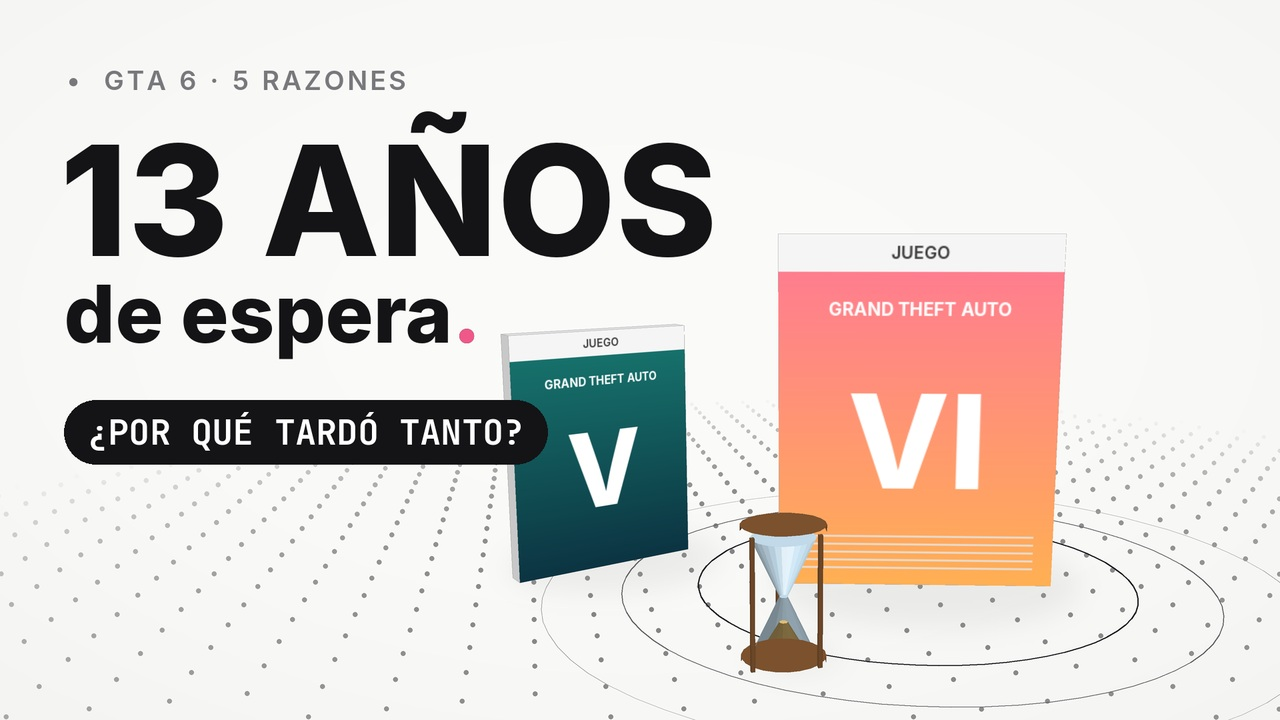
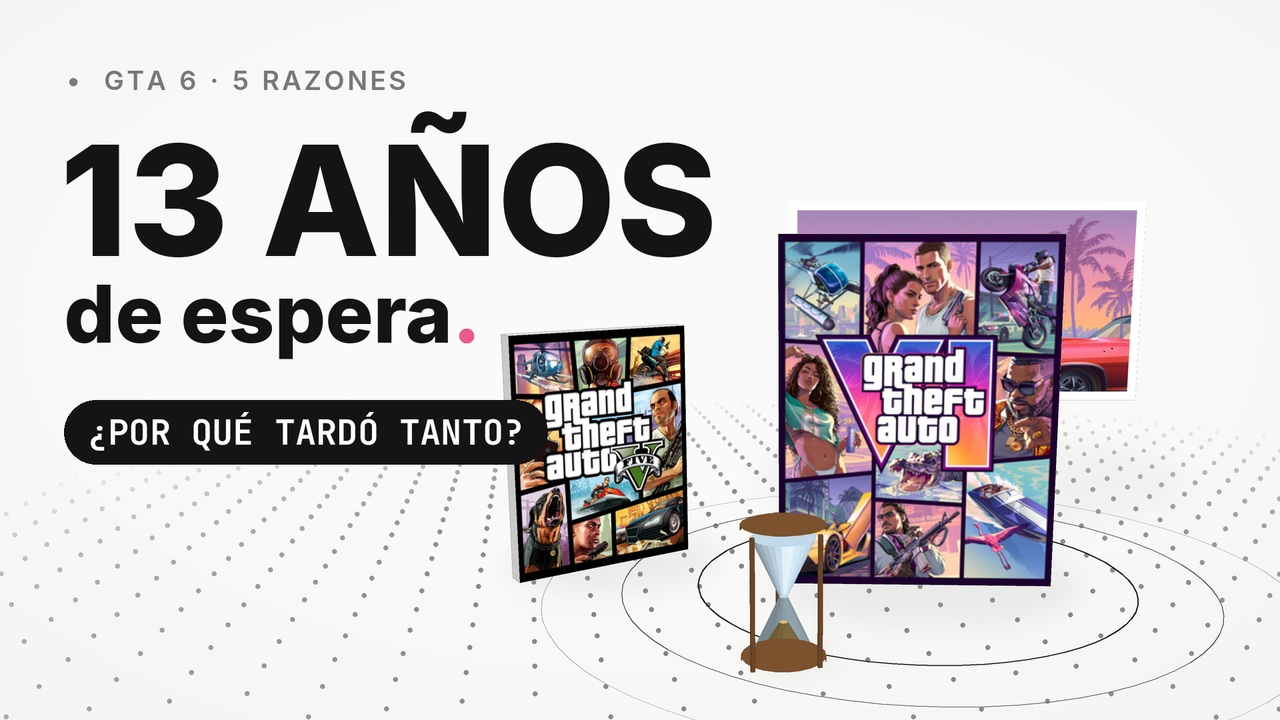
GTA 6: portadas e imágenes oficiales de Rockstar en el video, reels y miniatura
Claude-Session: https://claude.ai/code/session_013yc6YzZ1qAVrQkRfyuZ1ap

Changed region(s): [[0.5938, 0.275, 0.9062, 0.825], [0.375, 0.4278, 0.5625, 0.825]]

diff --git a/kit/gta6.py b/kit/gta6.py
@@ -74,8 +74,34 @@ PAPER = (246, 244, 238)
 _TX = {}
 
 
+IMG = '/home/claude/img/'
+REAL_COVER = {'V': 'cover_v.png', 'VI': 'box.jpg', 'RDR': 'cover_rdr2.jpg'}
+
+
+def real_img(name, w, h, border=0):
+    """Imagen oficial recortada a w x h (RGBA), con marco blanco opcional."""
+    key = ('real', name, w, h, border)
+    if key in _TX:
+        return _TX[key]
+    im = Image.open(IMG + name).convert('RGB')
+    iw, ih = im.size
+    r = w / h
+    if iw / ih > r:
+        nw = int(ih * r); im = im.crop(((iw - nw) // 2, 0, (iw - nw) // 2 + nw, ih))
+    else:
+        nh = int(iw / r); im = im.crop((0, (ih - nh) // 2, iw, (ih - nh) // 2 + nh))
+    im = im.resize((w - 2 * border, h - 2 * border), Image.LANCZOS)
+    out = Image.new('RGBA', (w, h), (255, 255, 255, 255))
+    out.paste(im, (border, border))
+    _TX[key] = out
+    return out
+
+
 def cover_tex(kind):
     if kind in _TX:
+        return _TX[kind]
+    if kind in REAL_COVER and os.path.exists(IMG + REAL_COVER[kind]):
+        _TX[kind] = real_img(REAL_COVER[kind], 270, 340)
         return _TX[kind]
     w, h = 270, 340
     if kind == 'V':
@@ -119,6 +145,14 @@ def screen_tex(kind, w=320, h=180):
         d.polygon([(cx - 10, cy - 16), (cx - 10, cy + 16), (cx + 18, cy)], fill=(30, 30, 40))
         d.rectangle((16, h - 20, w - 16, h - 16), fill=(90, 90, 100))
         d.rectangle((16, h - 20, w * 0.62, h - 16), fill=(255, 90, 130))
+    elif kind == 'trailer':  # imagen oficial del tráiler + botón de play
+        img = real_img('featured.jpg', w, h).copy()
+        d = ImageDraw.Draw(img)
+        cx, cy = w / 2, h / 2
+        d.ellipse((cx - 30, cy - 30, cx + 30, cy + 30), fill=(255, 255, 255, 235))
+        d.polygon([(cx - 9, cy - 14), (cx - 9, cy + 14), (cx + 16, cy)], fill=(30, 30, 40))
+        d.rectangle((14, h - 14, w - 14, h - 10), fill=(220, 220, 225))
+        d.rectangle((14, h - 14, w * 0.62, h - 10), fill=(255, 90, 130))
     elif kind == 'vc':  # cuadro de video filtrado (gráficos a medio hacer)
         img = grad_tex(w, h, (255, 140, 170), (60, 170, 190))
         d = ImageDraw.Draw(img)
@@ -327,6 +361,20 @@ def calendar(top, big, sub, x=0.0, z=0.0, ry=0.0, col=(220, 60, 60), cross=0.0, 
     m = box(1.2 * s, 1.36 * s, 0.08 * s, PAPER, shadow=0.4)
     decal(m, m.FACE['front'], cal_tex(top, big, sub, col, cross))
     return m.tf(ry=ry, t=(x, y, z))
+
+
+def photo(name, w=1.6, x=0.0, y=0.0, z=0.0, ry=0.0, rx=0.0, rz=0.0, ar=16 / 9, a=1.0):
+    """Tarjeta flotante con una imagen oficial (marco blanco, como foto impresa)."""
+    h = w / ar
+    m = box(w, h, 0.03, (250, 250, 250), shadow=0.25, base=False)
+    decal(m, m.FACE['front'], real_img(name, 480, int(480 / ar), border=12))
+    m.alpha = a
+    return m.tf(rx=rx, ry=ry, rz=rz, t=(x, y, z))
+
+
+def credit(fr, a=1.0):
+    """Etiqueta honesta para imágenes oficiales."""
+    ui_pill(fr, 'Imagen oficial: Rockstar Games', a, where='bl', dotc=(240, 88, 138))
 
 
 # ------------------------------------------------------------------ ayudas de escena
@@ -1061,7 +1109,8 @@ def s_money(fr, t, lt, dur):
 def s_trailer(fr, t, lt, dur):
     t0 = t - lt
     fr.cam = Cam(target=(0, 1.1, 0), dist=vfit(6.4), yaw=-14 + lt * 3, pitch=10)
-    fr.meshes += tv(0.4, 0, ry=-6, kind='play', w=2.4, h=1.35, y=0.45)
+    fr.meshes += tv(0.4, 0, ry=-6, kind='trailer', w=2.4, h=1.35, y=0.45)
+    credit(fr, clamp(lt / 0.4))
     # gotas de "fuga"
     for i in range(4):
         ph = (lt * 0.8 + i * 0.25) % 1
@@ -1077,10 +1126,16 @@ def s_hype(fr, t, lt, dur):
     fr.cam = Cam(target=(0, 1.0, 0), dist=vfit(6.6) - lt * 0.2, yaw=-10 + lt * 5, pitch=12)
     fr.meshes.append(cyl(0.9, 0.3, (236, 236, 240), n=36, gloss=0.3))
     fr.meshes.append(case_at('VI', 0, 0.3, 0, ry=lt * 25))
-    for i in range(6):
-        a = math.radians(i * 60 + 20)
-        x, z = 2.3 * math.cos(a), 2.3 * math.sin(a) * 0.8
-        fr.meshes += phone(x, 0.75 + 0.1 * math.sin(lt * 2 + i), z, ry=-math.degrees(a) - 90, rx=-70, s=0.55)
+    shots = ['s1.jpg', 's2.jpg', 's5.jpg', 's7.jpg']
+    for i, nm in enumerate(shots):
+        k = eback((lt - 0.3 - i * 0.25) / 0.5)
+        if k <= 0:
+            continue
+        side = -1 if i % 2 == 0 else 1
+        x = side * (1.7 + 0.35 * (i // 2))
+        y = 1.55 - 0.85 * (i // 2) + 0.06 * math.sin(lt * 1.5 + i)
+        fr.meshes.append(photo(nm, 1.35 * max(0.01, k), x, y, -0.5 - 0.3 * (i // 2), ry=-side * 18))
+    credit(fr, clamp((lt - 0.4) / 0.4))
     def under(d, cam, lt=lt):
         for j in range(3):
             r = 1.0 + ((lt * 0.6 + j / 3) % 1) * 1.8
@@ -1095,7 +1150,8 @@ def s_views(fr, t, lt, dur):
     k3 = ease((t - t3) / 0.45) if t3 is not None else 0
     fr.cam = Cam(target=(0 + k3 * 0.2, 1.1, 0), dist=vfit(6.8, wide=True) + k3 * 0.6, yaw=-10 + lt * 2, pitch=10)
     if k3 < 0.5:
-        ms = tv(0, 0, ry=0, kind='play', w=2.6, h=1.46, y=0.35)
+        ms = tv(0, 0, ry=0, kind='trailer', w=2.6, h=1.46, y=0.35)
+        credit(fr, 1 - k3 * 2)
         for m in ms:
             m.alpha = 1 - k3
         fr.meshes += ms
@@ -1164,6 +1220,12 @@ def s_map(fr, t, lt, dur):
     ui_text3(fr, (ll(28.0, -81.8)[0], 0.5, ll(28.0, -81.8)[1]), 'Leonida', 30, fk='xb', col=(200, 40, 100))
     ui_text3(fr, (ll(28.0, -81.8)[0], 0.5, ll(28.0, -81.8)[1]), '(inspirada en Florida)', 17, fk='sb', col=(110, 110, 116), dy=30)
     ui_pill(fr, 'Mapa aproximado', clamp(lt / 0.5))
+    fl = ll(28.0, -81.8)
+    for i, nm in enumerate(('s1.jpg', 's5.jpg', 's3.jpg')):
+        k = eback((lt - 1.0 - i * 0.3) / 0.5) * (1 - k5)
+        if k > 0.01:
+            fr.meshes.append(photo(nm, 1.4 * k, fl[0] + 2.0 + i * 0.35, 0.55 + i * 0.5, fl[1] + 0.2 + i * 0.55, rx=-40, ry=-10))
+    credit(fr, clamp((lt - 1.0) / 0.4) * (1 - k5))
     if t5 is not None and t >= t5:
         head(fr, ['Era aún', 'más grande.'], PINK, t, t5, kicker='Según Bloomberg (2022)')
     else:
@@ -1190,8 +1252,14 @@ def s_dates(fr, t, lt, dur):
 def s_polish(fr, t, lt, dur):
     t0 = t - lt
     fr.cam = Cam(target=(0, 1.0, 0), dist=vfit(5.8), yaw=-10 + lt * 3, pitch=10)
-    fr.meshes.append(case_at('VI', 0, 0.12, 0, ry=lt * 30))
+    fr.meshes.append(case_at('VI', 0, 0.12, 0, ry=18 * math.sin(lt * 0.9)))
     fr.meshes.append(cyl(0.9, 0.12, (236, 236, 240), n=30))
+    for i, nm in enumerate(('s2.jpg', 's4.jpg', 's6.jpg', 's8.jpg')):
+        u = (lt * 0.22 + i / 4) % 1
+        a = math.radians(-70 + 140 * u)
+        fr.meshes.append(photo(nm, 1.3, 2.4 * math.sin(a), 1.1 + 0.25 * math.cos(i), -1.0 - 1.2 * math.cos(a), ry=-math.degrees(a) * 0.6,
+                               a=clamp(math.sin(u * math.pi) * 2)))
+    credit(fr, clamp(lt / 0.4))
     def over(d, cam, lt=lt):
         for i in range(6):
             ph = (lt * 0.9 + i / 6) % 1
@@ -1237,7 +1305,9 @@ def s_nov19(fr, t, lt, dur):
     t0 = t - lt
     fr.cam = Cam(target=(0, 0.8, 0), dist=vfit(5.4) - lt * 0.15, yaw=-12 + lt * 4, pitch=10)
     a = eback(lt / 0.5)
-    fr.meshes.append(calendar('NOVIEMBRE', '19', '2026', 0, 0, col=PINK, s=max(0.01, 1.2 * a)))
+    fr.meshes.append(photo('featured.jpg', 3.4, 0.0, 1.35, -1.6, ry=0, a=clamp(lt / 0.6)))
+    fr.meshes.append(calendar('NOVIEMBRE', '19', '2026', 0, 0.3, col=PINK, s=max(0.01, 1.0 * a)))
+    credit(fr, clamp(lt / 0.5))
     def under(d, cam, lt=lt):
         for j in range(3):
             ph = (lt * 0.5 + j / 3) % 1

diff --git a/kit/thumb_gta.py b/kit/thumb_gta.py
@@ -11,6 +11,7 @@ fr.cam = Cam(target=(0.9, 1.0, 0), dist=6.2, yaw=-14, pitch=10, cx=0.62, cy=0.58
 fr.meshes.append(V.case_at('V', -0.2, 0, -0.6, ry=22, s=0.9))
 fr.meshes.append(V.case_at('VI', 1.6, 0, 0.2, ry=-16, s=1.25))
 fr.meshes += V.hourglass(0.55, 1.2, 0.5, k=0.8)
+fr.meshes.append(V.photo('featured.jpg', 3.0, 3.0, 1.5, -2.4, ry=-14))
 def under(d, cam):
     for j in range(3):
         E.ring3(d, cam, (1.6, 0.01, 0.2), 1.3 + j * 0.45, (30, 30, 34), 2.2 - j * 0.5, 1 - j * 0.3)
